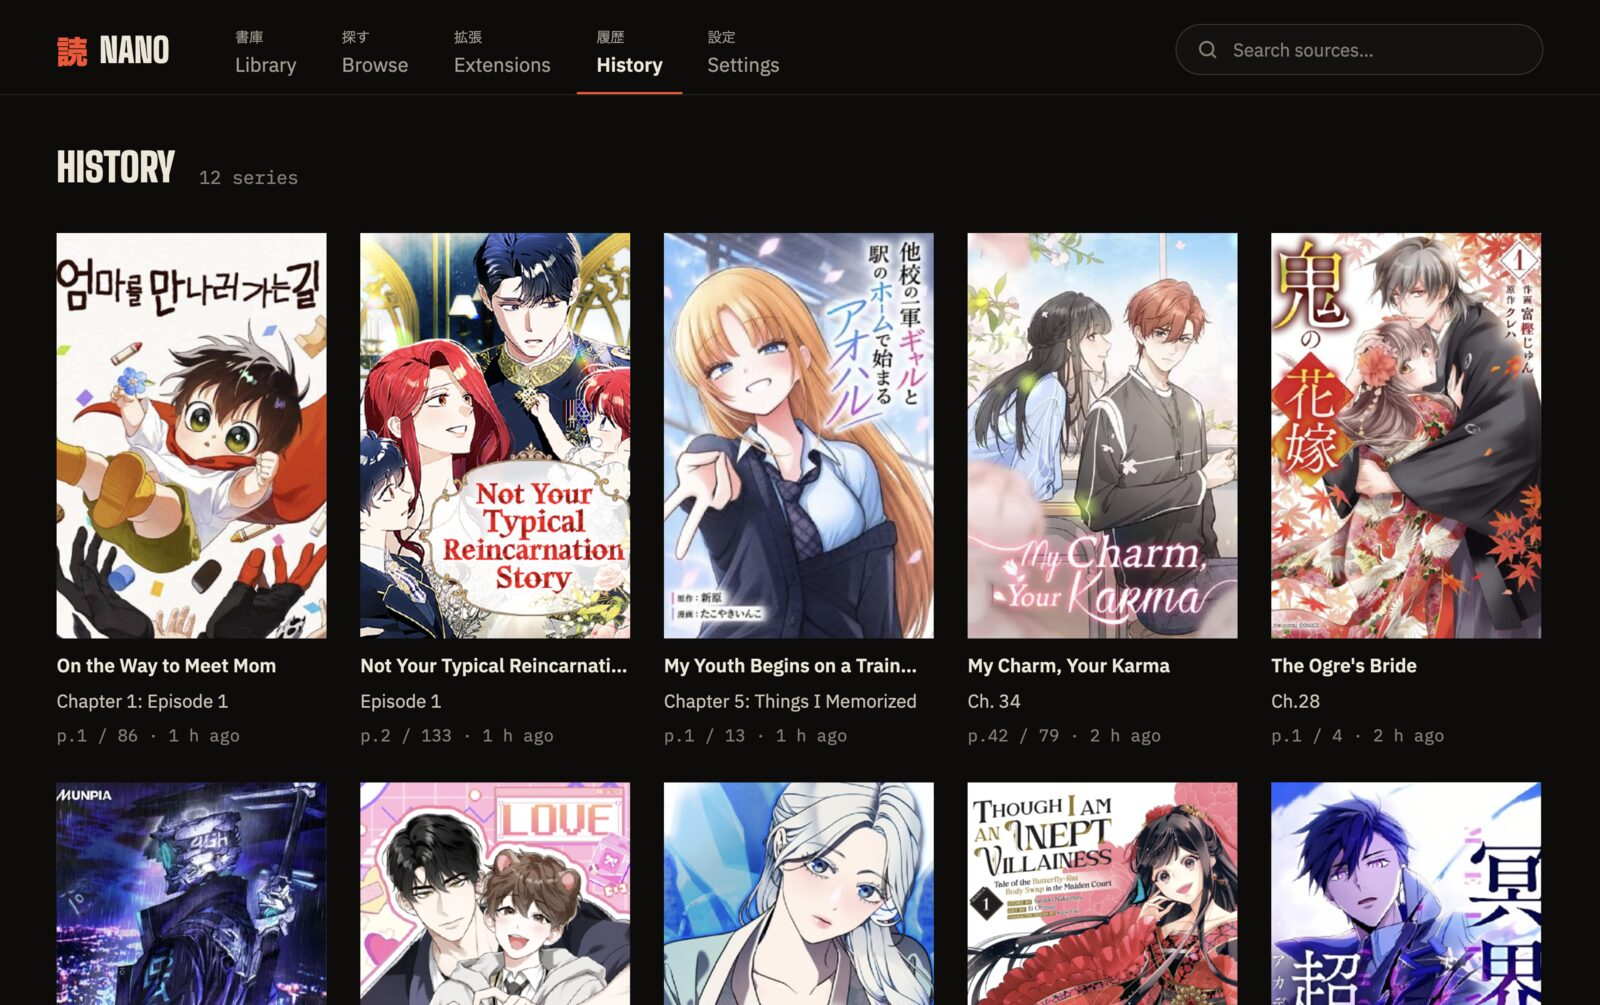
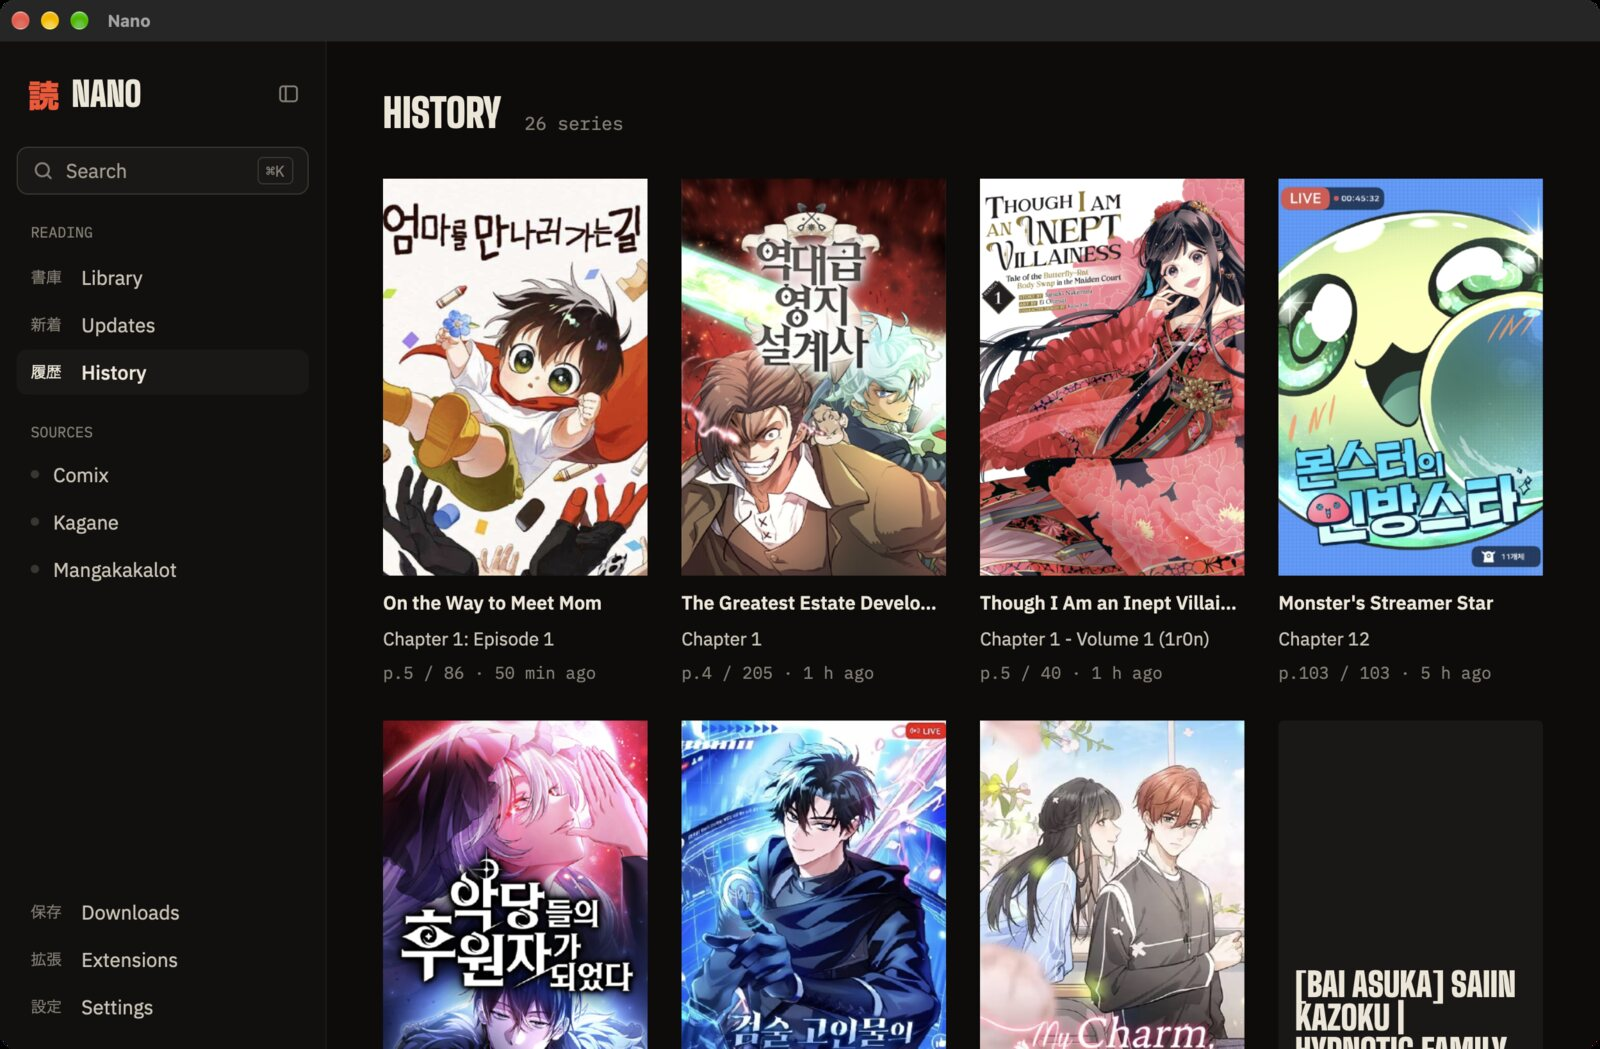
Update the README and screenshots
New UI screenshots, the logo, download table, and features for backup, SyncYomi, right-to-left and extension coverage.

diff --git a/app/src/main.rs b/app/src/main.rs
@@ -357,15 +357,31 @@ impl Root {
             cx.subscribe_in(&library, window, |this, _, _: &GoBrowse, window, cx| this.show(Tab::Browse, window, cx)),
         ];
         let tab = if demo().is_some() { Tab::Browse } else { Tab::Library };
-        // NANO_TAB=settings|browse starts on that tab (for testing).
-        let tab = match std::env::var("NANO_TAB").as_deref() { Ok("settings") => Tab::Settings, Ok("browse") => Tab::Browse, Ok("search") => Tab::Search, _ => tab };
+        // NANO_TAB=library|browse|extensions|history|settings|search starts on that tab (for testing).
+        let tab = match std::env::var("NANO_TAB").as_deref() {
+            Ok("library") => Tab::Library,
+            Ok("browse") => Tab::Browse,
+            Ok("extensions") => Tab::Extensions,
+            Ok("history") => Tab::History,
+            Ok("settings") => Tab::Settings,
+            Ok("search") => Tab::Search,
+            _ => tab,
+        };
         let focus = cx.focus_handle();
         focus.focus(window, cx);
         let settings = (tab == Tab::Settings).then(|| {
             let store = store.clone();
             cx.new(|cx| settings::Settings::new(store, cx))
         });
-        Root { cache, store, registry, tab, library, browse, global, catalog: None, history: None, settings, manga: None, migrate: None, reader: None, palette: None, closing: None, panel_moves: 0, sidebar_moves: 0, focus, _subs: subs }
+        let catalog = (tab == Tab::Extensions).then(|| {
+            let (registry, store, cache) = (registry.clone(), store.clone(), cache.clone());
+            cx.new(|cx| Catalog::new(registry, store, cache, cx))
+        });
+        let history = (tab == Tab::History).then(|| {
+            let (store, registry, cache) = (store.clone(), registry.clone(), cache.clone());
+            cx.new(|cx| History::new(store, registry, cache, cx))
+        });
+        Root { cache, store, registry, tab, library, browse, global, catalog, history, settings, manga: None, migrate: None, reader: None, palette: None, closing: None, panel_moves: 0, sidebar_moves: 0, focus, _subs: subs }
     }
 
     fn zoom_by(&mut self, delta: f32, cx: &mut Context<Self>) {

diff --git a/README.md b/README.md
@@ -2,7 +2,9 @@
 |-------|----------|----------|
 | ![macOS · Windows · Linux](https://img.shields.io/badge/macOS%20·%20Windows%20·%20Linux-desktop-e85a3c) | [![Rust + GPUI](https://img.shields.io/badge/Rust-GPUI-e85a3c)](https://www.gpui.rs) | ![Mihon extensions](https://img.shields.io/badge/Mihon-extensions-e85a3c) |
 
-# 読 Nano
+<img src="./.github/readme-images/logo.png" alt="Nano" width="96" align="left">
+
+# Nano
 
 Nano is a free and open source manga reader for the desktop. It runs the same extensions as [Mihon](https://github.com/mihonapp/mihon) and Tachiyomi, so the sources you use on your phone work on your computer too. The app is native (Rust and [GPUI](https://www.gpui.rs), the UI framework behind Zed), and extensions run in a small JVM host beside it.
 
@@ -22,7 +24,7 @@ Features of Nano include:
 * Mihon/Tachiyomi extensions from any repo you add, using the same address you'd give Mihon. Nano doesn't come with a repo. It remembers each repo's signing key when you add it and only runs jars signed with that key.
 * Every kind of search filter an extension offers: selects, checkboxes, include/exclude tags, groups and sort orders.
 * A library with what you're reading now, unread counts, and the latest chapters across your saved series.
-* Two reading modes: paged, or vertical for webtoons. Set a default in Settings, and pressing V in the reader changes it everywhere.
+* Three reading modes: left to right, right to left (for manga), or vertical for webtoons. Set a default in Settings, and pressing V in the reader switches between paged and vertical.
 * A page scrubber with a dot per page, and a chapter list in the reader controls to jump to any chapter.
 * Per-series scanlator filters, and per-extension language choices for multi-language sources.
 * Migration to another source, as in Mihon. Reading progress carries over by chapter number. Series stay readable from what was saved even after their extension is removed.
@@ -30,11 +32,23 @@ Features of Nano include:
 * Cloudflare checks passed quietly in the built-in web engine, with a window to click only when a site insists. A FlareSolverr or Byparr you already run can be added in Settings.
 * Covers cached for a week and chapter pages cached up to a size you choose, so going back doesn't download them again.
 * Descriptions rendered from Markdown or HTML, with clickable links.
+* Backup and restore with Mihon's `.tachibk` files: export your library, categories, progress and tracking, or import a backup from your phone. Importing only adds to what's already there.
+* [SyncYomi](https://github.com/syncyomi/syncyomi) sync with Mihon forks on your phone (TachiyomiSY, Komikku), plus MyAnimeList and AniList tracking.
 * JPEG XL pages (used by some sources).
+* Support for the Android classes extensions lean on, such as image unscrambling, text pages, QuickJS scripts and ZIP/CBZ archives. All 1,700+ extensions in the Keiyoushi repo link against the host; whether a given source works still depends on the site.
 * Bounded memory: only pages near your reading position stay decoded, and the extension host's Java heap is sized to your machine (adjustable in Settings).
 
-Planned:
-* [SyncYomi](https://github.com/syncyomi/syncyomi) sync with Mihon on your phone.
+## Download
+
+Builds for macOS, Windows and Linux (x64 and ARM64) come from the Build workflow under the Actions tab. Each one includes the extension host and a small Java runtime, so you don't need to install Java.
+
+| Platform | File |
+|-------|-------|
+| macOS | `.dmg` (drag Nano to Applications) |
+| Windows | `.zip` (unzip and run `nano-reader.exe`) |
+| Linux | `.flatpak` (`flatpak install nano-linux-x64.flatpak`), or a `.tar.gz` |
+
+The macOS app isn't signed yet. The first time, right-click it and choose Open, or run `xattr -cr /Applications/Nano.app`.
 
 ## Building
 
@@ -52,7 +66,7 @@ Environment variables:
 * `NANO_HOST`: path to the extension host launcher, if it isn't the dev build in `host/`.
 * `NANO_DATA`: where Nano keeps its library, extensions and caches.
 
-macOS is the most complete platform. On Windows and Linux the app builds and plain extensions work. Extensions that drive a hidden WebView rely on WebKit calls that are only wired up on macOS so far.
+macOS is the most complete platform. On Windows the built-in web engine (WebView2) handles Cloudflare checks and extensions that drive a hidden WebView. On Linux the app builds and plain extensions work, but the hidden-WebView calls are not wired up yet.
 
 ## Issues, Feature Requests and Contributing
 
